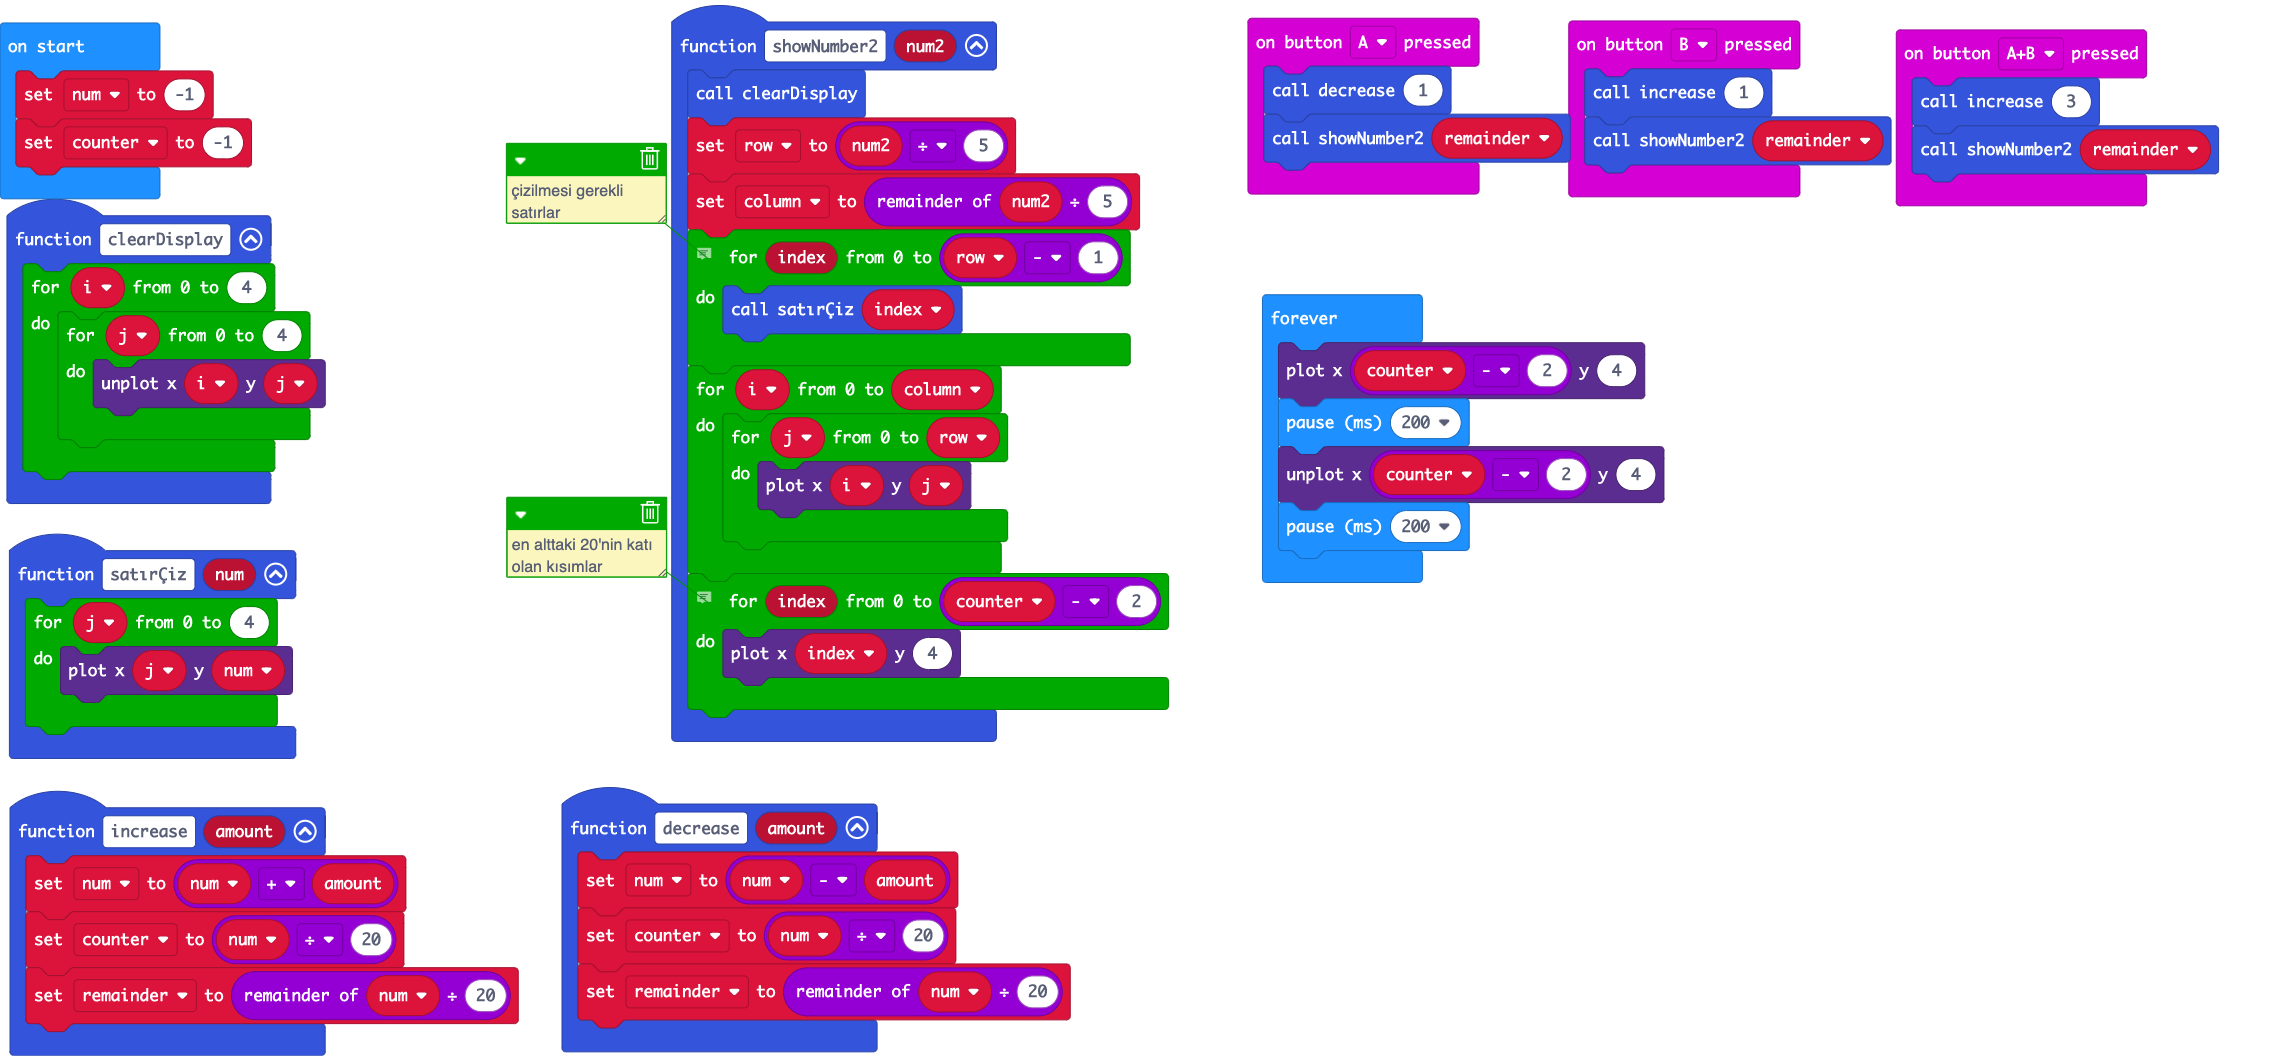
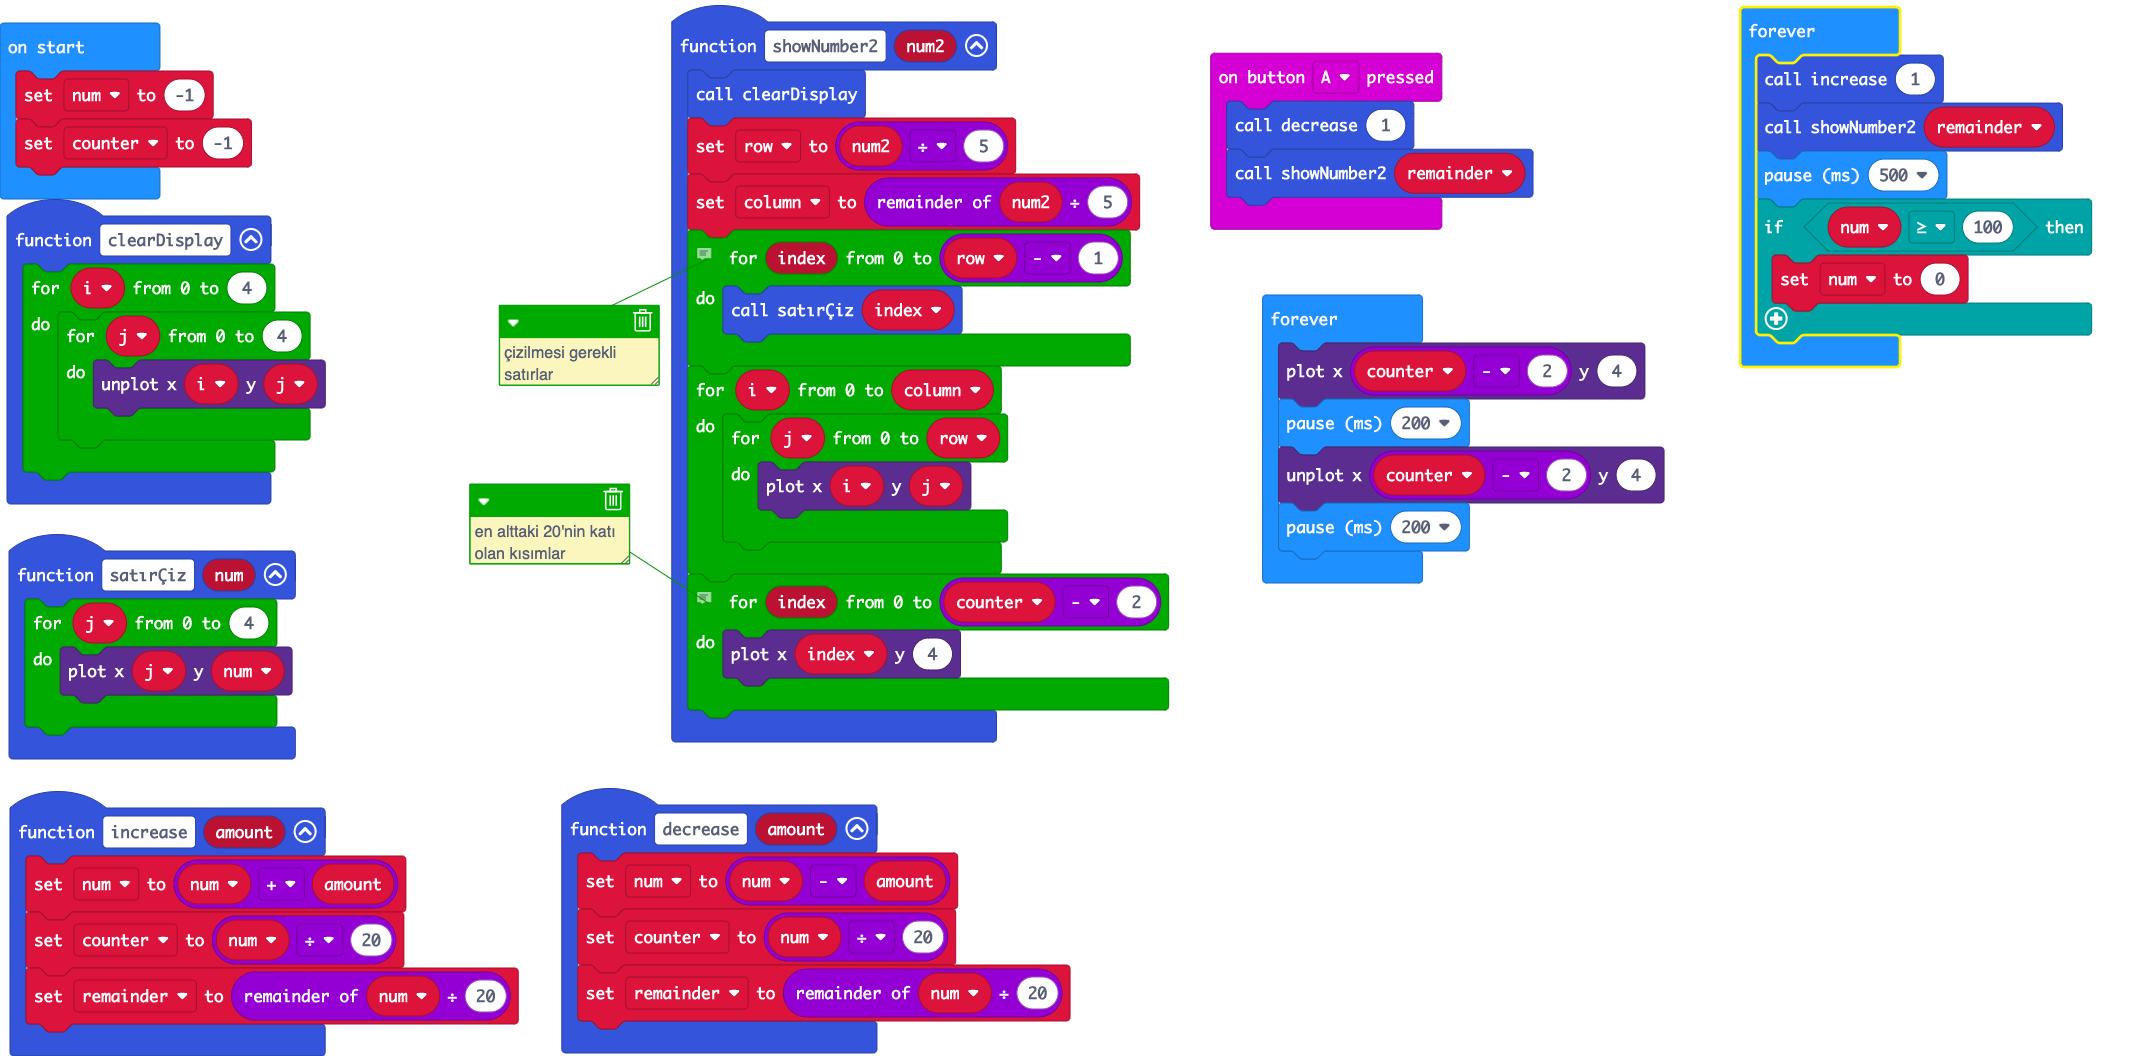
Update pxt.json, main.blocks, main.ts

diff --git a/main.ts b/main.ts
@@ -42,14 +42,6 @@ input.onButtonPressed(Button.A, function () {
     decrease(1)
     showNumber2(remainder)
 })
-input.onButtonPressed(Button.AB, function () {
-    increase(3)
-    showNumber2(remainder)
-})
-input.onButtonPressed(Button.B, function () {
-    increase(1)
-    showNumber2(remainder)
-})
 let column = 0
 let row = 0
 let remainder = 0
@@ -57,6 +49,14 @@ let counter = 0
 let num = 0
 num = -1
 counter = -1
+basic.forever(function () {
+    increase(1)
+    showNumber2(remainder)
+    basic.pause(500)
+    if (num >= 100) {
+        num = 0
+    }
+})
 basic.forever(function () {
     led.plot(counter - 2, 4)
     basic.pause(200)
